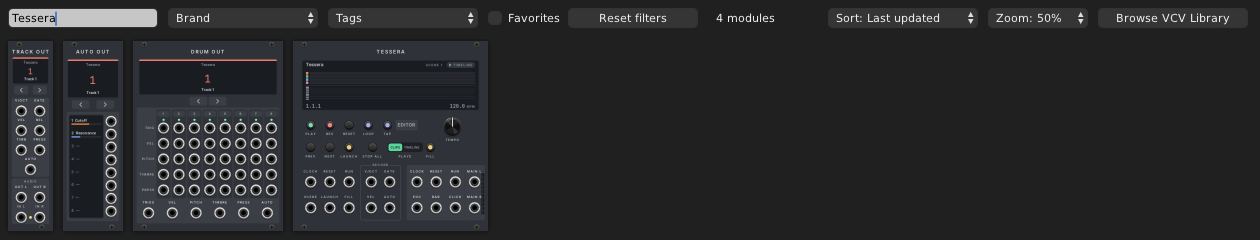
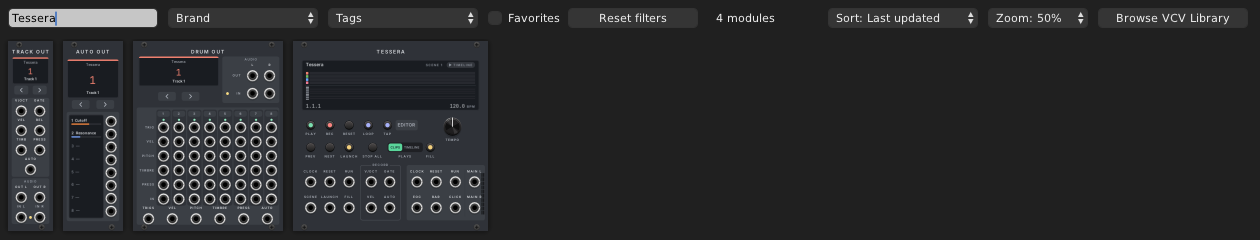
Give Drum Out an audio IN per lane and a kit OUT and IN, with lane sounds going to OUT and returns joining after it

Changed region(s): [[0.0929, 0.4958, 0.2167, 0.9333], [0.0929, 0.2333, 0.2476, 0.4083]]

diff --git a/src/ui/DrumOutWidget.cpp b/src/ui/DrumOutWidget.cpp
@@ -18,20 +18,24 @@ using rack::math::Vec;
 
 constexpr int kHp = 20;
 
-// Layout in mm. The panel is 101.6 x 128.5.
-const Rect kDisplay(4, 12.5f, 93.6f, 24);
-constexpr float kButtonRow = 40.75f; // the arrows sit exactly halfway between the display and the plate
+// Layout in mm. The panel is 101.6 x 128.5. At the top, the display and the kit's AUDIO block (OUT over IN, like
+// Track Out's); below, one strip per lane output; at the bottom, the poly jacks (docs/design/AUDIO_MIXER.md §8.1).
+const Rect kDisplay(4, 10.5f, 54, 20);
+constexpr float kButtonRow = 37.5f;
+constexpr float kButtonLeft = 23, kButtonRight = 39;
 const Vec kButtonSize(12, 6);
-const Rect kOutputPlate(2.5f, 45, 96.6f, 78.5f);
-// One mixer-style strip per lane output: a colour chip with its number, the hit light, then five jacks. The rows are
-// named once, at the left, instead of a letter in every strip.
+const Rect kAudioPlate(60.5f, 10.5f, 38.6f, 31.5f);
+constexpr float kAudioLabelRight = 73, kAudioL = 81, kAudioR = 92.5f, kOutRow = 23.6f, kInRow = 35.6f;
+const Rect kOutputPlate(2.5f, 45, 96.6f, 79.5f);
+// One mixer-style strip per lane output: a colour chip with its number, the hit light, then five jacks and the lane's
+// IN. The rows are named once, at the left, instead of a letter in every strip.
 constexpr float kStripW = 9.6f, kStripPitch = 10.44f, kFirstStrip = 20.7f;
-constexpr float kStripTop = 46.5f, kStripH = 60;
+constexpr float kStripTop = 46.5f, kStripH = 65;
 constexpr float kChipTop = 47.3f, kChipH = 4;
 constexpr float kLightRow = 53.4f;
-constexpr float kRows[5] = {59, 69.5f, 80, 90.5f, 101}; // trigger, velocity, pitch, timbre, pressure
+constexpr float kRows[6] = {58.6f, 68.3f, 78, 87.7f, 97.4f, 107.1f}; // trigger, velocity, pitch, timbre, pressure, IN
 constexpr float kRowNameRight = 14.4f;
-constexpr float kPolyRow = 116.5f, kFirstPoly = 10.55f, kPolyPitch = 16.1f;
+constexpr float kPolyRow = 120.5f, kFirstPoly = 10.55f, kPolyPitch = 16.1f;
 
 /// The drum track this Drum Out plays, or nullptr when it has no source or the track is gone.
 const Track* trackOf(DrumOutModule* module) {
@@ -90,12 +94,27 @@ struct DrumOutWidget : rack::app::ModuleWidget {
         display->box = Rect(rack::mm2px(kDisplay.pos), rack::mm2px(kDisplay.size));
         addChild(display);
 
-        addStepButton(IconButton::Icon::Previous, Vec(44.3f, kButtonRow), "Previous drum track", -1);
-        addStepButton(IconButton::Icon::Next, Vec(57.3f, kButtonRow), "Next drum track", +1);
+        addStepButton(IconButton::Icon::Previous, Vec(kButtonLeft, kButtonRow), "Previous drum track", -1);
+        addStepButton(IconButton::Icon::Next, Vec(kButtonRight, kButtonRow), "Next drum track", +1);
+
+        // The kit's audio: OUT carries every lane IN mixed, before the drum track's fader; IN brings an effect back.
+        panel.art().addPlate(kAudioPlate);
+        panel.art().addLabel(Vec(kAudioPlate.getCenter().x, kAudioPlate.pos.y + 3), "AUDIO",
+                             PanelArt::LabelKind::Section);
+        panel.art().addLabel(Vec(kAudioLabelRight, kOutRow), "OUT", PanelArt::LabelKind::RowName);
+        panel.art().addLabel(Vec(kAudioLabelRight, kInRow), "IN", PanelArt::LabelKind::RowName);
+        panel.output(Vec(kAudioL, kOutRow), M::KIT_OUT_L_OUTPUT, "L");
+        panel.output(Vec(kAudioR, kOutRow), M::KIT_OUT_R_OUTPUT, "R");
+        panel.input(Vec(kAudioL, kInRow), M::KIT_IN_L_INPUT, "");
+        panel.input(Vec(kAudioR, kInRow), M::KIT_IN_R_INPUT, "");
+        auto* inLight =
+            rack::createLightCentered<rack::componentlibrary::SmallLight<rack::componentlibrary::GreenRedLight>>(
+                rack::mm2px(Vec(kAudioPlate.pos.x + 3.5f, kInRow)), module, M::KIT_IN_LIGHT);
+        addChild(inLight);
 
         panel.art().addPlate(kOutputPlate);
-        const char* rowNames[5] = {"TRIG", "VEL", "PITCH", "TIMBRE", "PRESS"};
-        for (int r = 0; r < 5; r++)
+        const char* rowNames[6] = {"TRIG", "VEL", "PITCH", "TIMBRE", "PRESS", "IN"};
+        for (int r = 0; r < 6; r++)
             panel.art().addLabel(Vec(kRowNameRight, kRows[r]), rowNames[r], PanelArt::LabelKind::RowName);
         for (int i = 0; i < M::kTrigJacks; i++) {
             float x = kFirstStrip + float(i) * kStripPitch;
@@ -108,6 +127,7 @@ struct DrumOutWidget : rack::app::ModuleWidget {
                                   M::PRESS_OUTPUT + i};
             for (int r = 0; r < 5; r++)
                 panel.output(Vec(x, kRows[r]), jacks[r], "");
+            panel.input(Vec(x, kRows[5]), M::LANE_IN_INPUT + i, "");
             // A smaller-than-stock light: the stock 2 mm halo would touch the trigger jack.
             auto* light = new rack::componentlibrary::SmallLight<PlayLight>;
             light->module = module;
@@ -167,6 +187,7 @@ struct DrumOutWidget : rack::app::ModuleWidget {
             m->outputInfos[size_t(M::TIMBRE_OUTPUT + i)]->name = name + " timbre";
             m->outputInfos[size_t(M::PRESS_OUTPUT + i)]->name = name + " pressure";
             m->lightInfos[size_t(M::TRIG_LIGHT + i)]->name = name;
+            m->inputInfos[size_t(M::LANE_IN_INPUT + i)]->name = name + " audio";
         }
     }
 

diff --git a/src/module/OutputModuleBase.cpp b/src/module/OutputModuleBase.cpp
@@ -40,6 +40,20 @@ void OutputModuleBase::processAudio(const ProcessArgs& args, const OutputBus* b,
         outputs[size_t(audioPorts.outL)].setVoltage(f ? f->l : 0.f);
         outputs[size_t(audioPorts.outR)].setVoltage(f ? f->r : 0.f);
     }
+    if (audioPorts.sourceCount > 0) {
+        float sum = 0;
+        bool any = false;
+        for (int k = 0; k < audioPorts.sourceCount; k++) {
+            rack::engine::Input& in = inputs[size_t(audioPorts.sourceFirst + k)];
+            if (in.isConnected()) {
+                sum += in.getVoltageSum();
+                any = true;
+            }
+        }
+        int slot = sourceSlot.load(std::memory_order_relaxed);
+        if (on && slot >= 0 && any)
+            b->returns().write(args.frame, slot, track, sum, sum); // mono drums sit in the middle
+    }
     if (audioPorts.inL < 0)
         return;
     rack::engine::Input& inL = inputs[size_t(audioPorts.inL)];
@@ -81,10 +95,21 @@ void OutputModuleBase::processBypass(const ProcessArgs& args) {
 }
 
 void OutputModuleBase::releaseReturn() {
-    int slot = returnSlot.exchange(-1);
-    if (returnOwner && slot >= 0)
-        returnOwner->returns().release(slot);
+    for (std::atomic<int>* held : {&returnSlot, &sourceSlot}) {
+        int slot = held->exchange(-1);
+        if (returnOwner && slot >= 0)
+            returnOwner->returns().release(slot);
+    }
     returnOwner.reset();
+}
+
+int OutputModuleBase::activeSource() const {
+    if (audioPorts.sourceCount <= 0 || !audioOn.load(std::memory_order_relaxed))
+        return -1;
+    for (int k = 0; k < audioPorts.sourceCount; k++)
+        if (inputs[size_t(audioPorts.sourceFirst + k)].channels > 0)
+            return sourceSlot.load(std::memory_order_relaxed);
+    return -1;
 }
 
 BoundKind OutputModuleBase::boundKind() const {
@@ -189,13 +214,16 @@ void OutputModuleBase::refreshBinding() {
     bool master = src && acceptsMaster && bindingData.track == src->song().master.id;
     audioSlot.store(master ? OutputBus::kMasterSlot : busSlot.load());
     audioOn.store(src && !bindingData.followSelected && status() == BindingStatus::Bound);
-    if (audioPorts.inL >= 0) {
+    if (audioPorts.inL >= 0 || audioPorts.sourceCount > 0) {
         std::shared_ptr<OutputBus> owner = src ? src->outputBus() : nullptr;
         if (owner != returnOwner) {
             releaseReturn();
             if (owner) {
                 returnOwner = owner;
-                returnSlot.store(owner->returns().claim());
+                if (audioPorts.inL >= 0)
+                    returnSlot.store(owner->returns().claim());
+                if (audioPorts.sourceCount > 0)
+                    sourceSlot.store(owner->returns().claim());
             }
         }
     }

diff --git a/src/module/DrumOutModule.cpp b/src/module/DrumOutModule.cpp
@@ -30,6 +30,28 @@ DrumOutModule::DrumOutModule() : OutputModuleBase(TrackType::Drum) {
         configOutput(TIMBRE_OUTPUT + i, lane + " timbre")->description = kTimbreHelp;
         configOutput(PRESS_OUTPUT + i, lane + " pressure")->description = kPressHelp;
     }
+    for (int i = 0; i < kTrigJacks; i++)
+        configInput(LANE_IN_INPUT + i, "Lane " + std::to_string(i + 1) + " audio")->description =
+            "The sound of the drum on this lane (its module's output), mixed into the drum track and its OUT. A poly "
+            "cable is summed";
+    const char* outHelp = "The kit's sound before the drum track's fader (every lane IN mixed), for an effect: patch "
+                          "it out and the effect's output back into IN. 10 V is full scale (0 dB)";
+    configOutput(KIT_OUT_L_OUTPUT, "Kit OUT left")->description = outHelp;
+    configOutput(KIT_OUT_R_OUTPUT, "Kit OUT right")->description = outHelp;
+    const char* inHelp = "An effect on the kit coming back, or a stereo drum machine: mixed into the drum track before "
+                         "its fader. With one side patched, both sides hear it";
+    configInput(KIT_IN_L_INPUT, "Kit IN left")->description = inHelp;
+    configInput(KIT_IN_R_INPUT, "Kit IN right")->description = inHelp;
+    configLight(KIT_IN_LIGHT, "Kit IN level")->description = "Green while audio comes back, red above 0 dB";
+    AudioPorts ports;
+    ports.outL = KIT_OUT_L_OUTPUT;
+    ports.outR = KIT_OUT_R_OUTPUT;
+    ports.inL = KIT_IN_L_INPUT;
+    ports.inR = KIT_IN_R_INPUT;
+    ports.inLight = KIT_IN_LIGHT;
+    ports.sourceFirst = LANE_IN_INPUT;
+    ports.sourceCount = kTrigJacks;
+    setAudioPorts(ports);
     lightDivider.setDivision(kLightDivision);
 }
 

diff --git a/src/module/DrumOutModule.hpp b/src/module/DrumOutModule.hpp
@@ -8,12 +8,16 @@ namespace tessera {
 /// Lane outputs 1-8 each have a trigger, velocity, pitch, timbre and pressure jack; all 16 lanes are also on the
 /// poly outputs, channel = lane output. Pitch is the hit's tuning away from normal (1 V per octave, 0 V = none);
 /// timbre and pressure are 0-10 V. Each follows the hit's value or curve and holds until the lane's next hit.
+/// Audio: each lane output has a mono IN for its drum module; the kit's OUT L/R and IN L/R make an effect loop for
+/// the whole kit, like Track Out's.
 class DrumOutModule : public OutputModuleBase {
   public:
     static constexpr int kTrigJacks = 8;
 
     enum ParamId { PARAMS_LEN };
-    enum InputId { INPUTS_LEN };
+    // Each lane's mono sound (its drum module's output), mixed into the drum track and its OUT; the kit IN brings an
+    // effect on the whole kit back, or a stereo drum machine (docs/design/AUDIO_MIXER.md §8.1).
+    enum InputId { ENUMS(LANE_IN_INPUT, kTrigJacks), KIT_IN_L_INPUT, KIT_IN_R_INPUT, INPUTS_LEN };
     // New outputs go last: patches store cables by output ID.
     enum OutputId {
         ENUMS(TRIG_OUTPUT, kTrigJacks),
@@ -27,9 +31,11 @@ class DrumOutModule : public OutputModuleBase {
         ENUMS(PRESS_OUTPUT, kTrigJacks),
         PITCH_POLY_OUTPUT,
         ENUMS(PITCH_OUTPUT, kTrigJacks),
+        KIT_OUT_L_OUTPUT, // the kit's sound before the drum track's fader: every lane IN mixed
+        KIT_OUT_R_OUTPUT,
         OUTPUTS_LEN
     };
-    enum LightId { ENUMS(TRIG_LIGHT, kTrigJacks), LIGHTS_LEN };
+    enum LightId { ENUMS(TRIG_LIGHT, kTrigJacks), ENUMS(KIT_IN_LIGHT, 2), LIGHTS_LEN }; // the IN light: green, red
 
     DrumOutModule();
 

diff --git a/src/module/OutputModuleBase.hpp b/src/module/OutputModuleBase.hpp
@@ -67,6 +67,8 @@ class OutputModuleBase : public rack::engine::Module {
     /// The return bus slot its IN jacks write to while audio comes back on them, for Tessera's mix plan; -1 when
     /// nothing comes back (no IN, no cable, following the editor, or not bound). UI thread.
     int activeReturn() const;
+    /// The return bus slot its source inputs (Drum Out's lane INs) write to while any has a cable; -1 otherwise.
+    int activeSource() const;
     TrackId boundTrack() const { return bindingData.track; }
 
   protected:
@@ -74,6 +76,8 @@ class OutputModuleBase : public rack::engine::Module {
     /// into it, and the IN light shows what arrives (green, red above 0 dB). -1 where it has none.
     struct AudioPorts {
         int outL = -1, outR = -1, inL = -1, inR = -1, inLight = -1;
+        // Mono inputs that are the track's own sound (Drum Out's lane INs): mixed into it and into its OUT.
+        int sourceFirst = -1, sourceCount = 0;
     };
     void setAudioPorts(AudioPorts ports) { audioPorts = ports; }
 
@@ -102,6 +106,7 @@ class OutputModuleBase : public rack::engine::Module {
     std::atomic<uint64_t> boundTrackId{0};
     std::atomic<int> audioSlot{-1};         // where OUT reads on the output bus: the track's slot, or the master's
     std::atomic<int> returnSlot{-1};        // where IN writes on the return bus
+    std::atomic<int> sourceSlot{-1};        // where the source inputs write
     std::atomic<bool> audioOn{false};       // OUT and IN work: bound, and not following the editor's selection
     std::shared_ptr<OutputBus> returnOwner; // the bus whose return slot this module holds (UI thread)
     float inPeak = 0;

diff --git a/tests/audio_engine_tests.cpp b/tests/audio_engine_tests.cpp
@@ -440,6 +440,37 @@ TEST_CASE("OUT carries a track's clips before its fader; what comes back on IN j
     CHECK(master->l == doctest::Approx(left).epsilon(1e-3));
 }
 
+TEST_CASE("a track's own sources go to OUT, an effect's return doesn't, so an effect loop never feeds back") {
+    Song song = makeDefaultSong();
+    FakeBuffers buffers;
+    TrackId drums = song.tracks.back().id;
+    MixPlan plan;
+    plan.busSlots = {{drums, 3}};
+    plan.returns = {{drums, 0, true}, {drums, 1, false}}; // a lane IN, the kit IN
+    auto snap = buildAudioSnapshot(song, buffers, kRate, 120, {}, plan).snapshot;
+    REQUIRE(snap->tracks.size() == 1);
+    CHECK(snap->tracks[0].sources == std::vector<int>{0});
+    CHECK(snap->tracks[0].returns == std::vector<int>{1});
+    AudioPlayer player;
+    player.setSampleRate(kRate);
+    player.setSnapshot(snap.get());
+    Engine engine;
+    engine.setSampleRate(kRate);
+    ReturnBus returns;
+    std::array<AudioOutFrame, kMaxTracks + 1> out{};
+    std::array<TrackFrame, kMaxTracks> frames{};
+    TransportEvents events;
+    float left = 0, right = 0;
+    for (int64_t n = 0; n < 2000; n++) {
+        returns.write(n, 0, drums, 1.f, 1.f);
+        returns.write(n, 1, drums, 0.25f, 0.25f);
+        engine.process(frames.data(), events);
+        player.process(engine, left, right, {&returns, out.data(), n});
+    }
+    CHECK(out[3].l == doctest::Approx(1.f)); // OUT: the lane's sound only
+    CHECK(left == doctest::Approx(1.25f));   // the track: both
+}
+
 TEST_CASE("muting a track fades its clips out of OUT too, without a click") {
     Rig rig(4.0, dc);
     MixPlan plan;

diff --git a/src/module/TesseraModule.cpp b/src/module/TesseraModule.cpp
@@ -356,7 +356,7 @@ void TesseraModule::audioStep() {
     // A cable on an output module's IN, or a track moving bus slot, changes what the player mixes.
     uint64_t planKey = 0;
     for (const MixPlan::Return& r : plan.returns)
-        planKey = planKey * 1000003u + r.track.value * 131u + uint64_t(r.slot + 1);
+        planKey = planKey * 1000003u + r.track.value * 131u + uint64_t(r.slot + 1) * 2 + (r.source ? 1 : 0);
     for (const auto& [track, slot] : plan.busSlots)
         planKey = planKey * 1000003u + track.value * 31u + uint64_t(slot + 1);
     bool planChanged = planKey != audioPlanKey;
@@ -406,9 +406,12 @@ MixPlan TesseraModule::currentMixPlan() const {
         if (int slot = slots.slotOf(t.id); slot >= 0)
             plan.busSlots.push_back({t.id, slot});
     // Output modules whose IN brings audio back feed their track, or the master (§2, §8.3).
-    for (OutputModuleBase* o : Registry::get().outputsOf(id))
+    for (OutputModuleBase* o : Registry::get().outputsOf(id)) {
+        if (int slot = o->activeSource(); slot >= 0)
+            plan.returns.push_back({o->boundTrack(), slot, true});
         if (int slot = o->activeReturn(); slot >= 0)
-            plan.returns.push_back({o->boundTrack(), slot});
+            plan.returns.push_back({o->boundTrack(), slot, false});
+    }
     return plan;
 }
 

diff --git a/src/ui/TrackOutWidget.cpp b/src/ui/TrackOutWidget.cpp
@@ -130,8 +130,8 @@ struct TrackOutWidget : rack::app::ModuleWidget {
     TrackOutModule* outputModule() const { return static_cast<TrackOutModule*>(module); }
 
     /// A veil over jack `id` and its label, dim when the jack's `role` does nothing for the bound track: note jacks
-    /// for audio tracks and the master, OUT for note tracks (until sends exist), OUT and IN while following the
-    /// editor's selection.
+    /// for audio tracks and the master, OUT for instrument tracks (until sends exist; a drum track's OUT carries its
+    /// Drum Out's lane INs), OUT and IN while following the editor's selection.
     void addVeil(TrackOutModule* m, int id, bool input, Vec centerMm, int role) {
         auto* veil = new DimVeil;
         veil->module = m;
@@ -144,7 +144,7 @@ struct TrackOutWidget : rack::app::ModuleWidget {
                 return kind == BoundKind::Audio || kind == BoundKind::Master;
             if (mod.binding().followSelected)
                 return true;
-            return role == 1 && (kind == BoundKind::Instrument || kind == BoundKind::Drum);
+            return role == 1 && kind == BoundKind::Instrument;
         };
         Rect mm(centerMm.x - 5.6f, centerMm.y - theme::metrics::kPanelLabelAboveJackMm - 2.4f, 11.2f,
                 theme::metrics::kPanelLabelAboveJackMm + 2.4f + 4.6f);

diff --git a/src/engine/AudioPlayer.cpp b/src/engine/AudioPlayer.cpp
@@ -272,7 +272,16 @@ void AudioPlayer::process(const Engine& engine, float& left, float& right, const
         }
         if (i < count) {
             const AudioTrackPlay& tp = snapshot->tracks[i];
-            // OUT carries the track's clips before its fader; what comes back on IN joins them (§2, §8.4).
+            // The track's own sources join its clips; OUT carries them before the fader; what comes back on IN joins
+            // after OUT, so an effect loop never feeds back (§2, §8.4).
+            if (rack.returns)
+                for (int slot : tp.sources) {
+                    float rl, rr;
+                    if (rack.returns->read(rack.frame, slot, tp.id, rl, rr)) {
+                        sl += rl;
+                        sr += rr;
+                    }
+                }
             // A muted (or soloed-away) track's own clips stop feeding its effect too.
             run.outGain += run.outStep;
             if (rack.out && tp.busSlot >= 0 && tp.busSlot < kMaxTracks)

diff --git a/src/module/TrackOutModule.cpp b/src/module/TrackOutModule.cpp
@@ -19,7 +19,7 @@ struct TrackOutPortInfo : rack::engine::PortInfo {
         if (role == Role::Notes && (kind == BoundKind::Audio || kind == BoundKind::Master))
             why = kind == BoundKind::Audio ? "Nothing comes out here for an audio track"
                                            : "Nothing comes out here for the master";
-        else if (role == Role::Out && (kind == BoundKind::Instrument || kind == BoundKind::Drum))
+        else if (role == Role::Out && kind == BoundKind::Instrument)
             why = "Nothing comes out here yet for a note track: OUT will carry what other tracks send to it";
         else if ((role == Role::Out || role == Role::In) && m && m->binding().followSelected)
             why = "Off while Track Out follows the track selected in the editor";

diff --git a/src/engine/AudioPlayback.hpp b/src/engine/AudioPlayback.hpp
@@ -65,7 +65,8 @@ struct AudioInstancePlay {
 struct AudioTrackPlay {
     TrackId id;
     int busSlot = -1;         // where its sound before the fader goes on the output bus, for Track Out's OUT
-    std::vector<int> returns; // return bus slots mixed into it, at 0 dB (§2)
+    std::vector<int> sources; // return bus slots that are the track's own sound (Drum Out's lane INs): they go to OUT
+    std::vector<int> returns; // return bus slots mixed in after OUT (an effect coming back), at 0 dB (§2)
     std::vector<AudioInstancePlay> instances; // sorted by position
     std::vector<int> slots;                    // clip index per launcher slot, -1 when empty or not audio
     float volume = 1;                          // the fader as a gain

diff --git a/src/ui/views/MixerPane.cpp b/src/ui/views/MixerPane.cpp
@@ -654,7 +654,8 @@ void MixerPane::drawStrip(NVGcontext* vg, const Strip& s) {
 
     // Source chip: what feeds the track. In this phase that is its clips.
     if (s.chip.size.x > 0) {
-        std::string chip = "Clips";
+        // Where the sound comes from: an audio track's clips, or a note track's IN (its output module's inputs).
+        std::string chip = t && t->type != TrackType::Audio ? "IN" : "Clips";
         NVGcolor chipText = c.text1;
         if (t)
             for (const auto& [id, clip] : song.clips)
